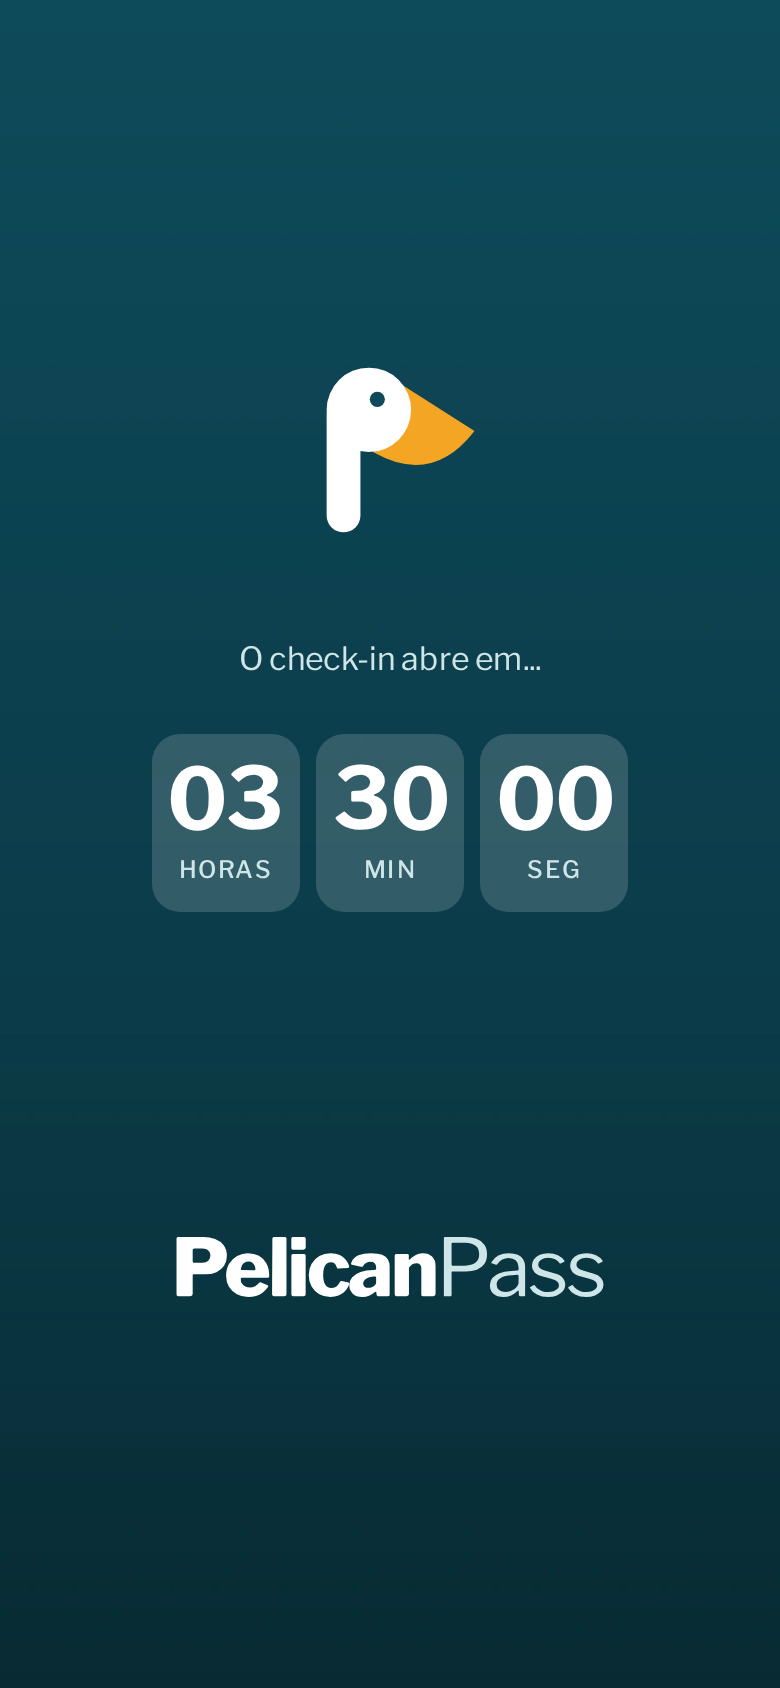
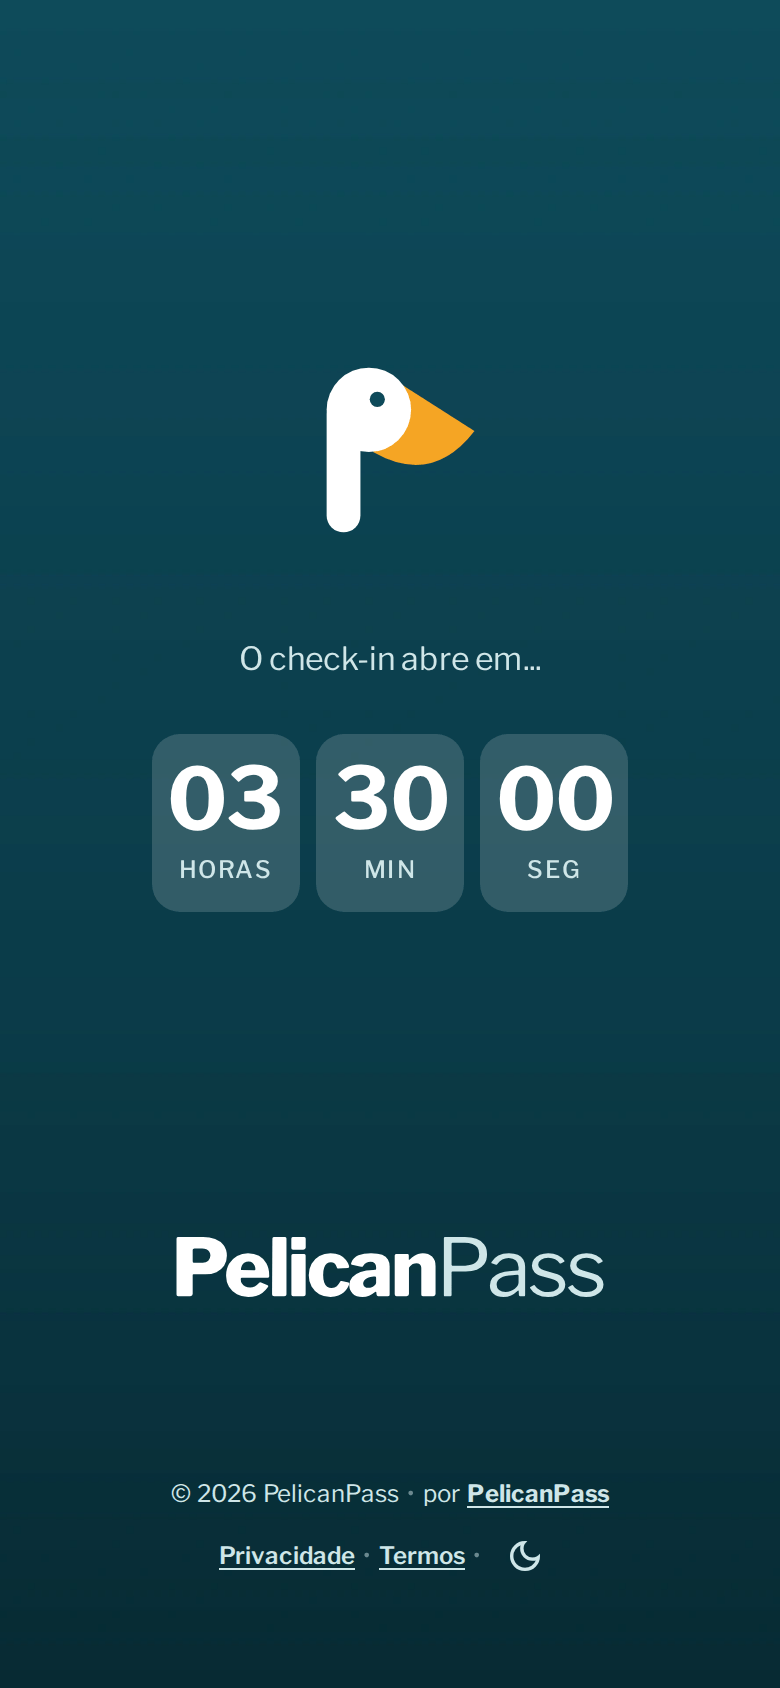
fix(docs): wait for animations before capturing screenshots
Reduced motion shortens animation durations but not their delays, so the
footer's 0.4s fade-in raced the capture and appeared in some screenshots
and not others. Every capture now waits for running animations to finish.

Changed region(s): [[0.2154, 0.8626, 0.4923, 0.955], [0.4923, 0.8626, 0.7692, 0.9242]]

diff --git a/scripts/docs/screenshots.ts b/scripts/docs/screenshots.ts
@@ -216,9 +216,19 @@ const newPage = async (context: BrowserContext): Promise<Page> => {
   return page;
 };
 
-/** Waits for web fonts, so icons and lettering are drawn before the capture. */
+/**
+ * Waits for web fonts, so icons and lettering are drawn before the capture,
+ * and for every running animation to finish. Reduced motion shortens their
+ * durations but not their delays: the footer fades in 0.4s after load, so a
+ * capture taken sooner would leave it out. A cancelled animation's `finished`
+ * rejects, and counts as settled.
+ */
 const settle = (page: Page): Promise<unknown> =>
-  page.evaluate('document.fonts.ready');
+  page.evaluate(`document.fonts.ready.then(() =>
+    Promise.all(
+      document.getAnimations().map((animation) => animation.finished.catch(() => {})),
+    ),
+  )`);
 
 /**
  * Waits for a check-in step's hint to be shown. `ui/hint.ts` sets it after a

diff --git a/CHANGELOG.md b/CHANGELOG.md
@@ -34,6 +34,7 @@ The public history of this project starts at 2.0.0. Earlier versions, up to 1.2.
 
 - `npm run docs:screenshots` captured the check-in ticket step before its hint was shown, so `checkin-ticket.png` changed from run to run; both check-in captures now wait for the hint to finish fading in
 - `npm run docs:screenshots` drew the rotation window's ring at whatever level it had drained to by the time of the capture, so `pass-back.png` and `staff.png` changed from run to run; the ring is now held at three quarters
+- `npm run docs:screenshots` could capture a page before its delayed animations ran, so the footer, which fades in 0.4s after load, was missing from some screenshots and present in others; every capture now waits for running animations to finish
 - The `admin-redemptions-index` view fixture gave the item's share as `50` instead of a 0-1 ratio and carried no counts, so the snapshot and the static demo showed "5.000% retirado" and blank figures; it now has the counts and a per-option breakdown
 - The demo banner took the admin shell's rail column, so on wide screens the navigation sat in the content column and the screen below it; it now spans the whole row above both
 
